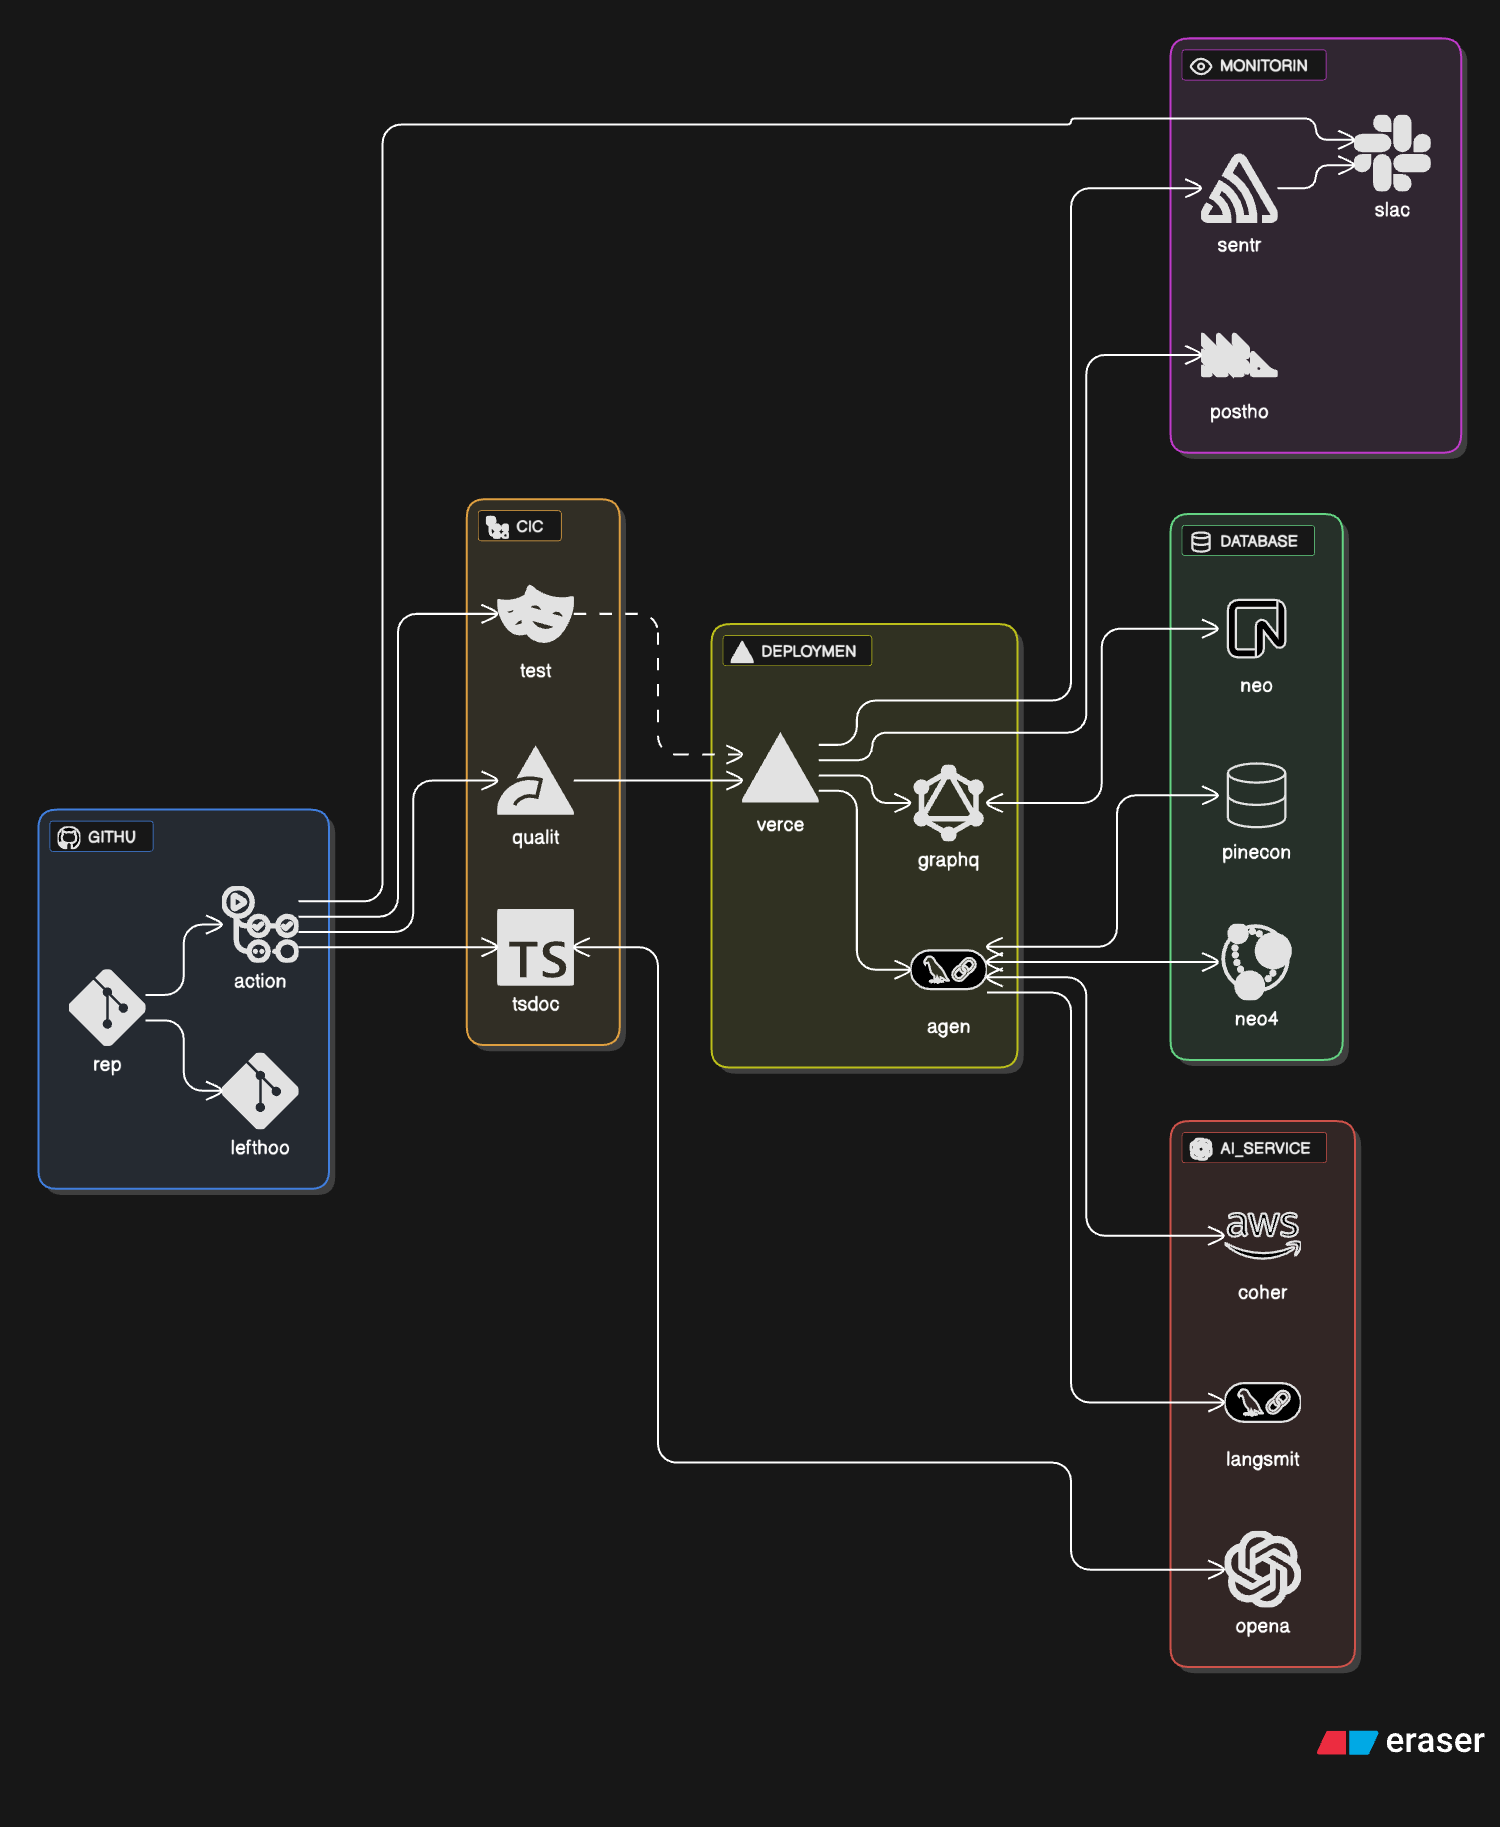
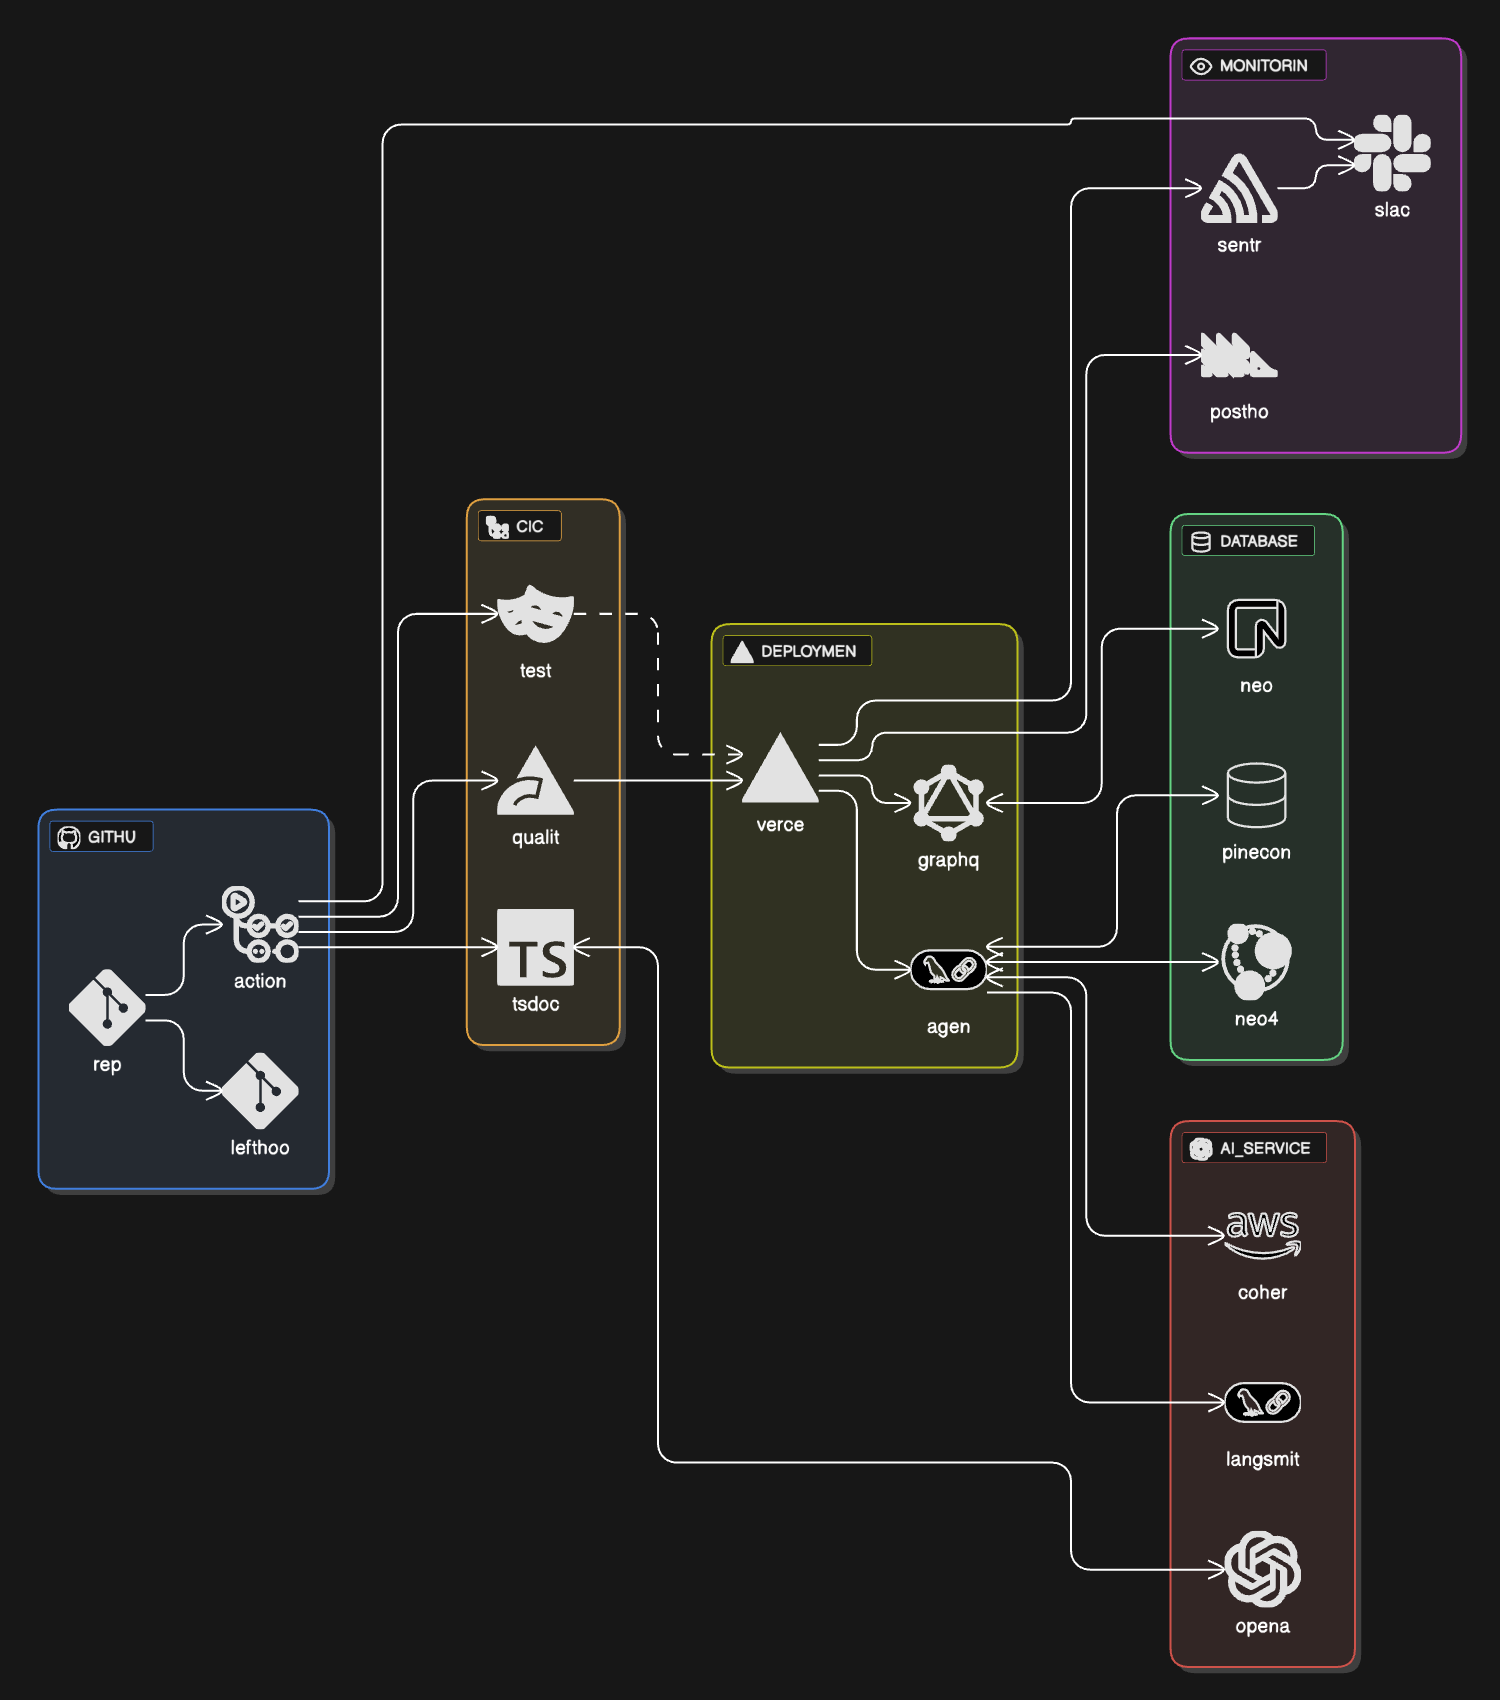
fix: simplify scroll logic (#84)
* fix: simplify scroll logic

* fix: neon fail gracefully

* docs: update arch image

* fix: add branch detection failure flag in extract-pr-info.sh

* fix: mobile btn padding

* fix: btn padding on desktop

diff --git a/apps/frontend/src/components/organisms/chat/chat.tsx b/apps/frontend/src/components/organisms/chat/chat.tsx
@@ -1,6 +1,6 @@
 "use client";
 
-import { useLayoutEffect, useRef } from "react";
+import { useEffect } from "react";
 import { Input } from "@/components/atoms/input";
 import type { ChatHeader } from "@/components/molecules/chatHeader";
 import { ChatInput } from "@/components/molecules/chatInput";
@@ -25,39 +25,18 @@ interface ChatProps {
 export function Chat({ header, placeholderTexts, action }: ChatProps) {
 	const { inputValue, isTyping, handleInputChange, handleSend } =
 		useChatInput();
-	const { messagesContainerRef, handleScroll } = useChatScroll();
+	const { messagesContainerRef, scrollToBottom } = useChatScroll();
 	const { messages, sendMessage } = useChatMessages(
 		action,
 		messagesContainerRef,
 	);
-	const { thoughts, scrollPosition } = useChatStore();
-	const scrollTimeoutRef = useRef<NodeJS.Timeout | null>(null);
 
-	/* v8 ignore start */
+	const { thoughts } = useChatStore();
+
 	// biome-ignore lint/correctness/useExhaustiveDependencies: scrollToBottom is stable from useChatScroll hook
-	useLayoutEffect(() => {
-		if (messagesContainerRef.current) {
-			messagesContainerRef.current.scrollTop = scrollPosition;
-
-			if (scrollTimeoutRef.current) {
-				clearTimeout(scrollTimeoutRef.current);
-			}
-
-			scrollTimeoutRef.current = setTimeout(() => {
-				if (messagesContainerRef.current) {
-					const maxScroll =
-						messagesContainerRef.current.scrollHeight -
-						messagesContainerRef.current.clientHeight;
-
-					messagesContainerRef.current.scrollTo({
-						top: maxScroll,
-						behavior: "smooth",
-					});
-				}
-			}, 100);
-		}
-	}, [messagesContainerRef.current?.scrollHeight, thoughts]);
-	/* v8 ignore stop */
+	useEffect(() => {
+		scrollToBottom();
+	}, [messages, thoughts]);
 
 	const handleKeyPress = (e: React.KeyboardEvent<HTMLInputElement>) => {
 		if (e.key === "Enter" && !isTyping) {
@@ -92,10 +71,7 @@ export function Chat({ header, placeholderTexts, action }: ChatProps) {
 		<ChatWindowWrapper data-auth-required="true">
 			<div className="bg-card/30 backdrop-blur-sm rounded-2xl border border-border/20 shadow-2xl overflow-hidden hover:animate-terminal-glow transition-all duration-500">
 				{header}
-				<ChatMessagesWrapper
-					messagesContainerRef={messagesContainerRef}
-					onScroll={handleScroll}
-				>
+				<ChatMessagesWrapper messagesContainerRef={messagesContainerRef}>
 					{messages.map((message) => (
 						<span key={message.id}>
 							{message.content === null && (

diff --git a/apps/frontend/src/lib/hooks/useChatScroll.test.ts b/apps/frontend/src/lib/hooks/useChatScroll.test.ts
@@ -21,18 +21,7 @@ describe("useChatScroll", () => {
 		const { result } = renderHook(() => useChatScroll());
 
 		expect(result.current.messagesContainerRef).toBeDefined();
-		expect(result.current.handleScroll).toBeDefined();
-	});
-
-	it("calls setScrollPosition when handleScroll is called with valid ref", () => {
-		const { result } = renderHook(() => useChatScroll());
-
-		const mockDiv = { scrollTop: 100 } as HTMLDivElement;
-		result.current.messagesContainerRef.current = mockDiv;
-
-		result.current.handleScroll();
-
-		expect(mockSetScrollPosition).toHaveBeenCalledWith(100);
+		expect(result.current.scrollToBottom).toBeDefined();
 	});
 
 	it("does not call setScrollPosition when ref.current is null", () => {
@@ -40,8 +29,29 @@ describe("useChatScroll", () => {
 
 		result.current.messagesContainerRef.current = null;
 
-		result.current.handleScroll();
+		result.current.scrollToBottom();
 
 		expect(mockSetScrollPosition).not.toHaveBeenCalled();
+	});
+
+	it("scrolls to bottom when ref.current exists", () => {
+		const { result } = renderHook(() => useChatScroll());
+
+		const mockScrollTo = vi.fn();
+		const mockElement = {
+			scrollTo: mockScrollTo,
+			scrollHeight: 1000,
+		} as unknown as HTMLDivElement;
+
+		result.current.messagesContainerRef.current = mockElement;
+
+		result.current.scrollToBottom();
+
+		vi.advanceTimersByTime(50);
+
+		expect(mockScrollTo).toHaveBeenCalledWith({
+			top: 1000,
+			behavior: "smooth",
+		});
 	});
 });

diff --git a/apps/frontend/src/components/organisms/chat/chat.test.tsx b/apps/frontend/src/components/organisms/chat/chat.test.tsx
@@ -1,11 +1,5 @@
 import type { StreamableValue } from "@ai-sdk/rsc";
-import {
-	act,
-	cleanup,
-	fireEvent,
-	render,
-	screen,
-} from "@testing-library/react";
+import { cleanup, fireEvent, render, screen } from "@testing-library/react";
 import { beforeEach, expect, it, vi } from "vitest";
 import { Chat } from "@/components/organisms/chat";
 import type {
@@ -69,7 +63,7 @@ beforeEach(async () => {
 				clientHeight: 50,
 			} as unknown as HTMLDivElement,
 		},
-		handleScroll: vi.fn(),
+		scrollToBottom: vi.fn(),
 	});
 });
 
@@ -496,7 +490,7 @@ it("Chat clears scroll timeout on multiple renders", async () => {
 				clientHeight: 50,
 			} as unknown as HTMLDivElement,
 		},
-		handleScroll: vi.fn(),
+		scrollToBottom: vi.fn(),
 	});
 
 	vi.mocked(useChatStore).mockReturnValue({
@@ -521,8 +515,6 @@ it("Chat clears scroll timeout on multiple renders", async () => {
 		/>,
 	);
 
-	expect(setTimeoutSpy).toHaveBeenCalled();
-
 	rerender(
 		<Chat
 			header={mockHeader}
@@ -533,8 +525,6 @@ it("Chat clears scroll timeout on multiple renders", async () => {
 			action={mockAction}
 		/>,
 	);
-
-	expect(clearTimeoutSpy).toHaveBeenCalled();
 
 	clearTimeoutSpy.mockRestore();
 	setTimeoutSpy.mockRestore();

diff --git a/apps/frontend/src/components/atoms/navigationButton/navigationButton.tsx b/apps/frontend/src/components/atoms/navigationButton/navigationButton.tsx
@@ -7,7 +7,7 @@ export function NavigationButton({ href, text }: NavigationButtonProps) {
 	return (
 		<a
 			href={href}
-			className="px-1 sm:px-2 md:px-4 py-1 text-sm sm:text-base text-foreground border border-foreground rounded-md hover:bg-foreground/10 hover:border-foreground/60 hover:text-foreground hover:shadow-lg hover:shadow-foreground/20 transition-all duration-300 cursor-pointer inline-block text-center touch-manipulation select-none whitespace-nowrap flex-shrink"
+			className="px-3 sm:px-4 md:px-6 py-2 text-sm sm:text-base text-foreground border border-foreground rounded-md hover:bg-foreground/10 hover:border-foreground/60 hover:text-foreground hover:shadow-lg hover:shadow-foreground/20 transition-all duration-300 cursor-pointer inline-block text-center touch-manipulation select-none whitespace-nowrap flex-shrink"
 		>
 			{text}
 		</a>

diff --git a/apps/frontend/src/lib/hooks/useChatScroll.ts b/apps/frontend/src/lib/hooks/useChatScroll.ts
@@ -1,16 +1,18 @@
-import { useRef } from "react";
-import { useChatStore } from "../stores/chatStore";
+import { useCallback, useRef } from "react";
 
 export const useChatScroll = () => {
 	const messagesContainerRef = useRef<HTMLDivElement>(null);
 
-	const { setScrollPosition } = useChatStore();
+	const scrollToBottom = useCallback(() => {
+		setTimeout(() => {
+			if (messagesContainerRef.current) {
+				messagesContainerRef.current.scrollTo({
+					top: messagesContainerRef.current.scrollHeight,
+					behavior: "smooth",
+				});
+			}
+		}, 50);
+	}, []);
 
-	const handleScroll = () => {
-		if (messagesContainerRef.current) {
-			setScrollPosition(messagesContainerRef.current.scrollTop);
-		}
-	};
-
-	return { messagesContainerRef, handleScroll };
+	return { messagesContainerRef, scrollToBottom };
 };

diff --git a/apps/frontend/src/app/globals.css b/apps/frontend/src/app/globals.css
@@ -416,12 +416,27 @@ body {
 		-webkit-tap-highlight-color: transparent;
 		pointer-events: auto;
 		font-size: 0.75rem !important;
-		padding: 0.125rem 0.25rem !important;
+		padding: 0.25rem 0.5rem !important;
 		min-width: auto !important;
 	}
 
 	nav a:active {
 		transform: scale(0.98);
+	}
+}
+
+/* Tablet and desktop - minimal padding */
+@media (min-width: 769px) {
+	nav a {
+		padding: 0.25rem 0.5rem !important;
+		font-size: 0.875rem !important;
+	}
+}
+
+@media (min-width: 1024px) {
+	nav a {
+		padding: 0.25rem 0.75rem !important;
+		font-size: 1rem !important;
 	}
 }
 
@@ -440,7 +455,7 @@ body {
 
 	nav a {
 		font-size: 0.7rem !important;
-		padding: 0.125rem 0.125rem !important;
+		padding: 0.25rem 0.375rem !important;
 	}
 }
 

diff --git a/apps/frontend/src/components/molecules/chatMessagesWrapper/chatMessagesWrapper.tsx b/apps/frontend/src/components/molecules/chatMessagesWrapper/chatMessagesWrapper.tsx
@@ -6,12 +6,10 @@ interface ChatMessagesWrapperProps {
 export function ChatMessagesWrapper({
 	children,
 	messagesContainerRef,
-	onScroll,
 }: ChatMessagesWrapperProps & { onScroll?: () => void }) {
 	return (
 		<div
 			ref={messagesContainerRef}
-			onScroll={onScroll}
 			className="h-80 overflow-y-auto p-6 space-y-4  bg-transparent"
 		>
 			{children}

diff --git a/README.md b/README.md
@@ -680,7 +680,7 @@ This project is licensed under the MIT License - see the [LICENSE](LICENSE.md) f
 ## 📞 Contact
 
 - **Email**: [ben@benhorner.dev](mailto:ben@benhorner.dev)
-- **LinkedIn**: [Ben Horner](https://linkedin.com/in/benhorner)
+- **LinkedIn**: [Ben Horner](https://www.linkedin.com/in/ben-horner-dev)
 - **GitHub**: [@benhorner-dev](https://github.com/benhorner-dev)
 
 ---
